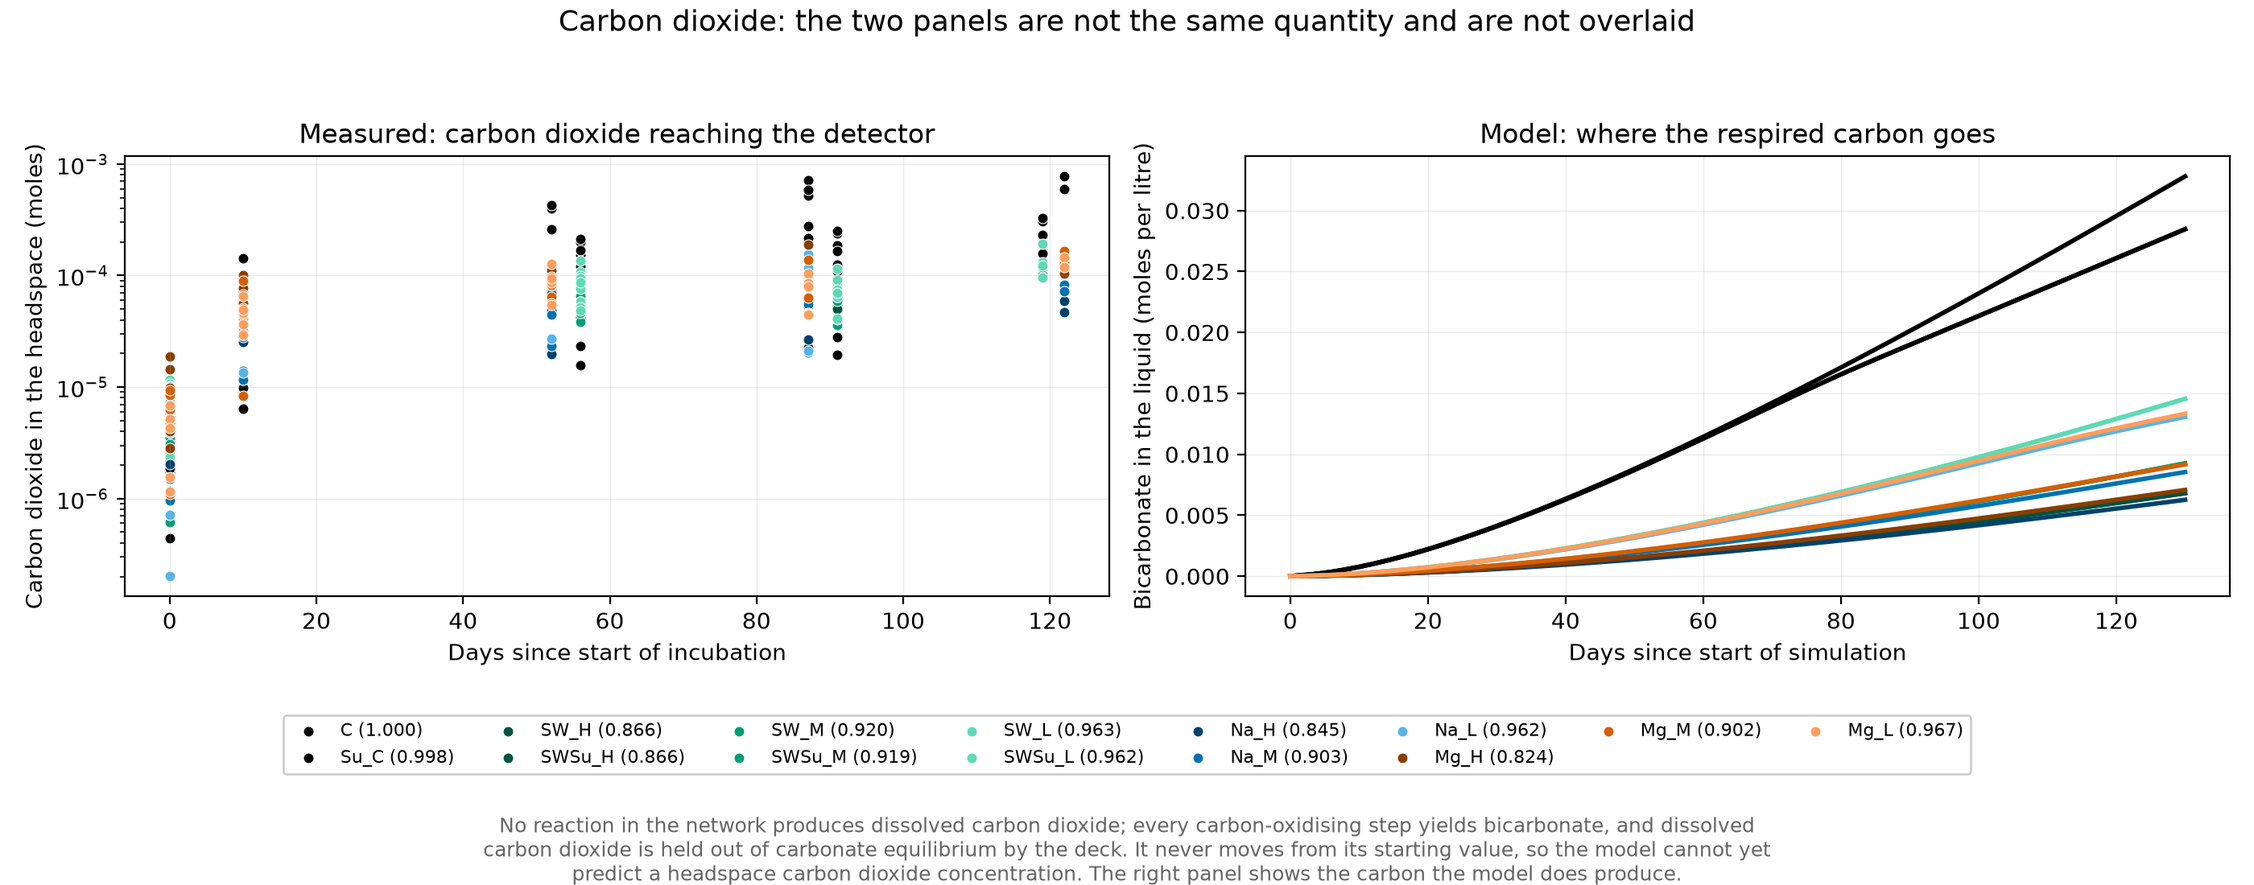
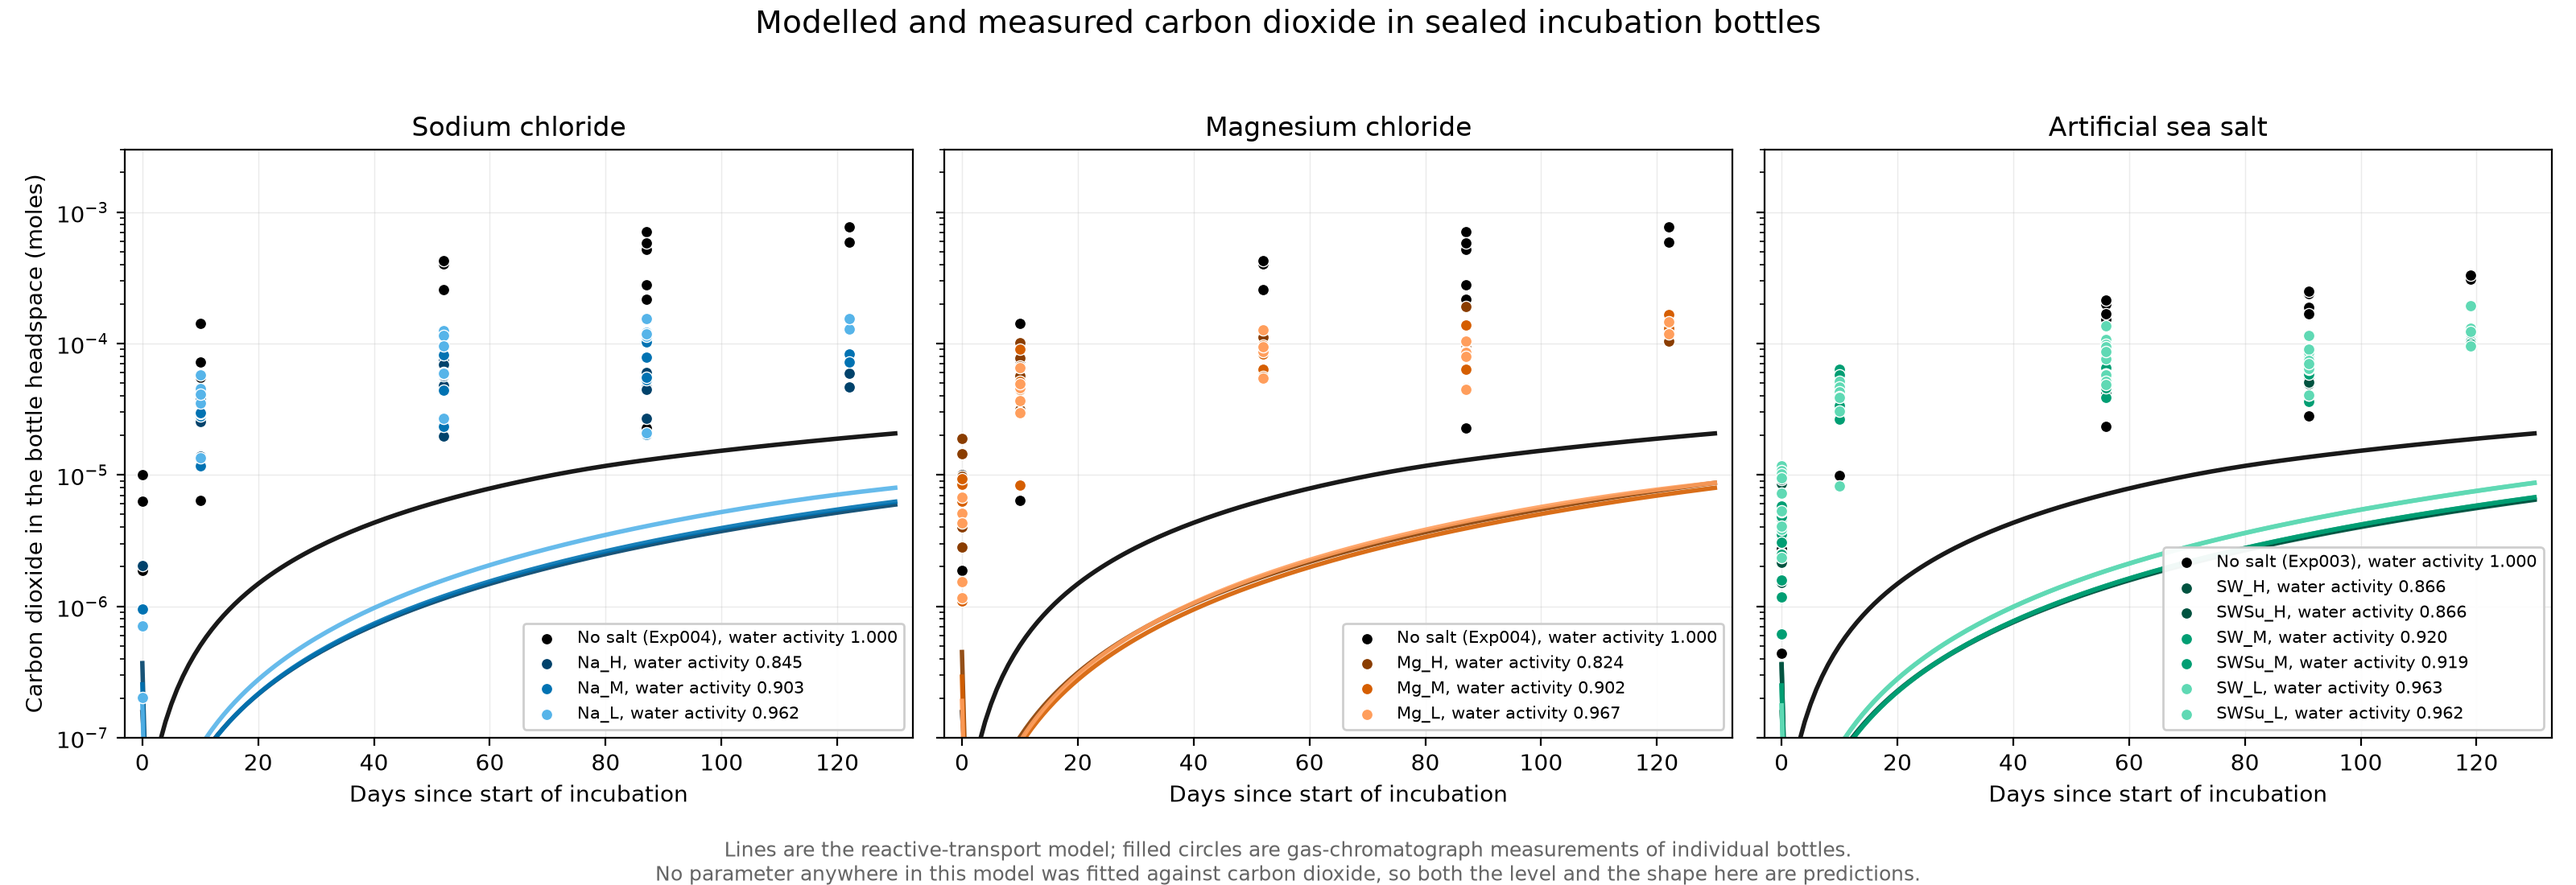
feat(figures): overlay measured and modelled carbon dioxide
With coupled carbonate the two are the same quantity -- PFLOTRAN speciates
internally and reports neutral CO2(aq), which Henry's law turns into headspace
moles -- so the split panels were no longer necessary. Redrawn in the same
three-panel layout as the methane figure.

Decks without coupled carbonate still cannot be overlaid: dissolved CO2 never
moves from its initial value there, and a flat line would look like a
prediction. Those fall back to a single measurements-only panel that says why
on the figure, rather than leaving a reader to infer it from a suspiciously
horizontal curve.

The overlay shows the model reproducing the shape and the ordering -- monotone
saturating rise, control above every salted condition -- while sitting roughly
one to one and a half orders of magnitude low, and still climbing at day 130
where the measurements have levelled off. No parameter in this model was ever
fitted against carbon dioxide, so that is a parameter-free prediction.

diff --git a/src/pflotran_py/comparison/figures.py b/src/pflotran_py/comparison/figures.py
@@ -12,10 +12,10 @@ around: does production fall as salt rises, and does the model fall with it?
 This is the figure that shows whether the inhibition in the model matches the
 inhibition in the bottles.
 
-**Carbon dioxide** shows the measured series beside the model's carbon
-production. Whether these are comparable depends on how the deck was built: a
-deck with coupled carbonate predicts headspace carbon dioxide and a deck
-without one cannot. See :func:`plot_carbon_dioxide`.
+**Carbon dioxide** overlays measured and modelled on shared axes, in the same
+layout as the methane figure. Decks built without coupled carbonate cannot be
+drawn this way and fall back to the measurements alone with the reason stated
+on the figure. See :func:`plot_carbon_dioxide`.
 
 **Measured against modelled** puts the two on opposite axes with the line of
 equality drawn, one point per batch condition. It is the most direct reading of
@@ -466,108 +466,174 @@ def plot_methane_against_water_activity(paired, output_path):
 # ═════════════════════════════════════════════════════════════════════
 
 
+COUPLED_CARBON_DIOXIDE_COLUMN = "CO2(aq) [M]"
+
+
+def model_carbon_dioxide_series(run_frame, batch_row):
+    """Model headspace carbon dioxide over time, or None if unavailable.
+
+    Returns None when the deck was built without coupled carbonate. In that
+    case the model carries dissolved carbon dioxide as an independent primary
+    species that no reaction produces, so it never moves from its initial value
+    and there is nothing to plot against a measurement.
+    """
+    if COUPLED_CARBON_DIOXIDE_COLUMN not in run_frame.columns:
+        return None, None
+    nacl, mgcl2 = setschenow_salts_from_composition(batch_row)
+    moles = [
+        aqueous_concentration_to_headspace_moles(
+            row[COUPLED_CARBON_DIOXIDE_COLUMN],
+            GASES["CO2"],
+            nacl_molarity=nacl,
+            mgcl2_molarity=mgcl2,
+        ).to_value(u.mol)
+        for _, row in run_frame.iterrows()
+    ]
+    return run_frame["Time [d]"].to_numpy(), np.array(moles)
+
+
+def model_carbon_dioxide_headspace(run_frame, batch_row):
+    """Model headspace carbon dioxide at the end of the run, or None."""
+    _, series = model_carbon_dioxide_series(run_frame, batch_row)
+    return None if series is None else series[-1]
+
+
 def plot_carbon_dioxide(paired, ecsv_glob, output_path):
-    """Measured carbon dioxide, beside the model's carbon production.
+    """Measured and modelled carbon dioxide in the headspace, over the incubation.
 
-    These two panels are deliberately not overlaid, because they are not the
-    same quantity and drawing them on one axis would imply a comparison that
-    cannot presently be made.
+    Overlaid on shared axes, in the same layout as the methane figure, because
+    with coupled carbonate the two are now the same quantity: PFLOTRAN speciates
+    internally and reports the neutral dissolved carbon dioxide, which Henry's
+    law turns into the headspace moles a gas chromatograph would sample.
 
-    The reason is in the reaction network. No reaction in it produces dissolved
-    carbon dioxide: every carbon-oxidising step yields bicarbonate instead, and
-    dissolved carbon dioxide is additionally held out of carbonate equilibrium
-    by the deck's decoupling list. Its concentration therefore never moves from
-    its initial value, and converting it through Henry's law -- the conversion
-    used for methane -- would predict no carbon dioxide accumulation at all.
-
-    What the model does predict is the rise in bicarbonate, which is where the
-    respired carbon actually goes. That is shown on the right. Turning it into a
-    headspace prediction needs carbonate speciation at brine ionic strength,
-    which is exactly the extrapolation the conversion module declines to make.
-
-    So the left panel is the measurement, the right panel is the model's carbon
-    production, and the gap between them is a task, not a result.
+    Decks built without coupled carbonate cannot be drawn this way. There the
+    model holds dissolved carbon dioxide as an independent primary species that
+    no reaction produces -- every carbon-oxidising step in the network yields
+    bicarbonate -- so its concentration never moves and an overlay would show a
+    flat line that means nothing. Those runs fall back to a single panel of the
+    measurements alone, with the reason stated on the figure rather than left
+    for the reader to infer from a suspiciously horizontal curve.
     """
     measured = load_measured(ecsv_glob, "CO2")
+    predictable = [
+        entry
+        for entry in paired
+        if COUPLED_CARBON_DIOXIDE_COLUMN in entry["model"].columns
+    ]
 
-    figure, (left, right) = plt.subplots(1, 2, figsize=(14, 5.5))
-
-    for entry in paired:
-        batch = entry["batch"]
-        colour = colour_for_brine(batch["Brine Name"])
-        label = f"{batch['Brine Name']} ({batch['Measured Water Activity']:.3f})"
-
-        points = measured[
-            (measured["Experiment"] == batch["Experiment"])
-            & (measured["Batch ID"] == batch["Batch ID"])
-        ]
-        if len(points):
-            left.scatter(
-                points["Days since start"],
-                points["Cumulative Moles"],
-                color=colour,
-                s=22,
-                edgecolor="white",
-                linewidth=0.4,
-                label=label,
-            )
-
-        run_frame = entry["model"]
-        right.plot(
-            run_frame["Time [d]"],
-            run_frame["Total HCO3- [M]"],
-            color=colour,
-            linewidth=2,
-            label=label,
+    if not predictable:
+        figure, axis = plt.subplots(figsize=(8, 5.5))
+        for entry in paired:
+            batch = entry["batch"]
+            points = measured[
+                (measured["Experiment"] == batch["Experiment"])
+                & (measured["Batch ID"] == batch["Batch ID"])
+            ]
+            if len(points):
+                axis.scatter(
+                    points["Days since start"],
+                    points["Cumulative Moles"],
+                    color=colour_for_brine(batch["Brine Name"]),
+                    s=24,
+                    edgecolor="white",
+                    linewidth=0.4,
+                )
+        axis.set_yscale("log")
+        axis.set_xlabel("Days since start of incubation")
+        axis.set_ylabel("Carbon dioxide in the headspace (moles)")
+        axis.set_title(
+            "Measured carbon dioxide; the model cannot predict it", fontsize=12
         )
+        axis.grid(True, alpha=0.25, linewidth=0.5)
+        figure.text(
+            0.5,
+            0.01,
+            "These decks were built without coupled carbonate, so dissolved carbon dioxide "
+            "never moves from its\ninitial value and there is no modelled curve to draw. "
+            "Rebuild with couple_carbonate to compare.",
+            ha="center",
+            fontsize=9,
+            color=PALETTE["guide"],
+        )
+        figure.tight_layout(rect=[0, 0.09, 1, 1])
+        figure.savefig(output_path, dpi=200)
+        plt.close(figure)
+        return output_path
 
-    left.set_yscale("log")
-    left.set_xlabel("Days since start of incubation")
-    left.set_ylabel("Carbon dioxide in the headspace (moles)")
-    left.set_title("Measured: carbon dioxide reaching the detector", fontsize=12)
-    left.grid(True, alpha=0.25, linewidth=0.5)
+    families = ["Sodium chloride", "Magnesium chloride", "Artificial sea salt"]
+    figure, axes = plt.subplots(1, 3, figsize=(16, 5.5), sharey=True)
 
-    right.set_xlabel("Days since start of simulation")
-    right.set_ylabel("Bicarbonate in the liquid (moles per litre)")
-    right.set_title("Model: where the respired carbon goes", fontsize=12)
-    right.grid(True, alpha=0.25, linewidth=0.5)
+    for axis, family in zip(axes, families):
+        members = [
+            entry
+            for entry in predictable
+            if salt_family(entry["batch"]["Brine Name"]) == family
+        ]
+        experiments = {entry["batch"]["Experiment"] for entry in members}
+        controls = [
+            entry
+            for entry in predictable
+            if entry["batch"]["Brine Name"] == "C"
+            and entry["batch"]["Experiment"] in experiments
+        ]
 
-    # One shared key rather than the same legend twice, so neither panel has
-    # its data covered by a box repeating what the other already said.
-    handles, labels = left.get_legend_handles_labels()
-    seen, unique = set(), []
-    for handle, label in zip(handles, labels):
-        if label not in seen:
-            seen.add(label)
-            unique.append((handle, label))
-    figure.legend(
-        [h for h, _ in unique],
-        [text for _, text in unique],
-        fontsize=8,
-        ncol=8,
-        loc="lower center",
-        bbox_to_anchor=(0.5, 0.115),
-        framealpha=0.95,
-    )
+        for entry in controls + members:
+            batch = entry["batch"]
+            colour = colour_for_brine(batch["Brine Name"])
+            name = (
+                f"No salt ({batch['Experiment']})"
+                if batch["Brine Name"] == "C"
+                else batch["Brine Name"]
+            )
+            label = f"{name}, water activity {batch['Measured Water Activity']:.3f}"
+
+            days, moles = model_carbon_dioxide_series(entry["model"], batch)
+            if days is not None:
+                axis.plot(days, moles, color=colour, linewidth=2, alpha=0.9, zorder=2)
+
+            points = measured[
+                (measured["Experiment"] == batch["Experiment"])
+                & (measured["Batch ID"] == batch["Batch ID"])
+            ]
+            if len(points):
+                axis.scatter(
+                    points["Days since start"],
+                    points["Cumulative Moles"],
+                    color=colour,
+                    s=26,
+                    edgecolor="white",
+                    linewidth=0.5,
+                    zorder=3,
+                    label=label,
+                )
+
+        axis.set_yscale("log")
+        axis.set_ylim(1e-7, 3e-3)
+        axis.set_xlim(-3, 133)
+        axis.set_xlabel("Days since start of incubation")
+        axis.set_title(family, fontsize=12)
+        axis.grid(True, alpha=0.25, linewidth=0.5)
+        axis.legend(fontsize=7.5, loc="lower right", framealpha=0.95)
+
+    axes[0].set_ylabel("Carbon dioxide in the bottle headspace (moles)")
 
     figure.suptitle(
-        "Carbon dioxide: the two panels are not the same quantity and are not overlaid",
-        fontsize=13,
+        "Modelled and measured carbon dioxide in sealed incubation bottles",
+        fontsize=14,
         y=0.99,
     )
     figure.text(
         0.5,
         0.005,
-        "No reaction in the network produces dissolved carbon dioxide; every carbon-oxidising "
-        "step yields bicarbonate, and dissolved\ncarbon dioxide is held out of carbonate "
-        "equilibrium by the deck. It never moves from its starting value, so the model cannot "
-        "yet\npredict a headspace carbon dioxide concentration. The right panel shows the carbon "
-        "the model does produce.",
+        "Lines are the reactive-transport model; filled circles are gas-chromatograph "
+        "measurements of individual bottles.\n"
+        "No parameter anywhere in this model was fitted against carbon dioxide, so both the "
+        "level and the shape here are predictions.",
         ha="center",
         fontsize=9,
         color=PALETTE["guide"],
     )
-    figure.tight_layout(rect=[0, 0.22, 1, 0.95])
+    figure.tight_layout(rect=[0, 0.06, 1, 0.96])
     figure.savefig(output_path, dpi=200)
     plt.close(figure)
     return output_path
@@ -576,25 +642,6 @@ def plot_carbon_dioxide(paired, ecsv_glob, output_path):
 # ═════════════════════════════════════════════════════════════════════
 # Figure 4 -- measured against modelled, directly
 # ═════════════════════════════════════════════════════════════════════
-
-COUPLED_CARBON_DIOXIDE_COLUMN = "CO2(aq) [M]"
-
-
-def model_carbon_dioxide_headspace(run_frame, batch_row):
-    """Model headspace carbon dioxide, or None if the deck cannot predict it.
-
-    Requires a deck built with coupled carbonate. Without it the model reports
-    dissolved carbon dioxide as an independent primary species that no reaction
-    produces, so it never leaves its initial value and there is nothing to
-    compare.
-    """
-    if COUPLED_CARBON_DIOXIDE_COLUMN not in run_frame.columns:
-        return None
-    nacl, mgcl2 = setschenow_salts_from_composition(batch_row)
-    final = run_frame.iloc[-1][COUPLED_CARBON_DIOXIDE_COLUMN]
-    return aqueous_concentration_to_headspace_moles(
-        final, GASES["CO2"], nacl_molarity=nacl, mgcl2_molarity=mgcl2
-    ).to_value(u.mol)
 
 
 def plot_measured_against_modelled(paired, ecsv_glob, output_path):
